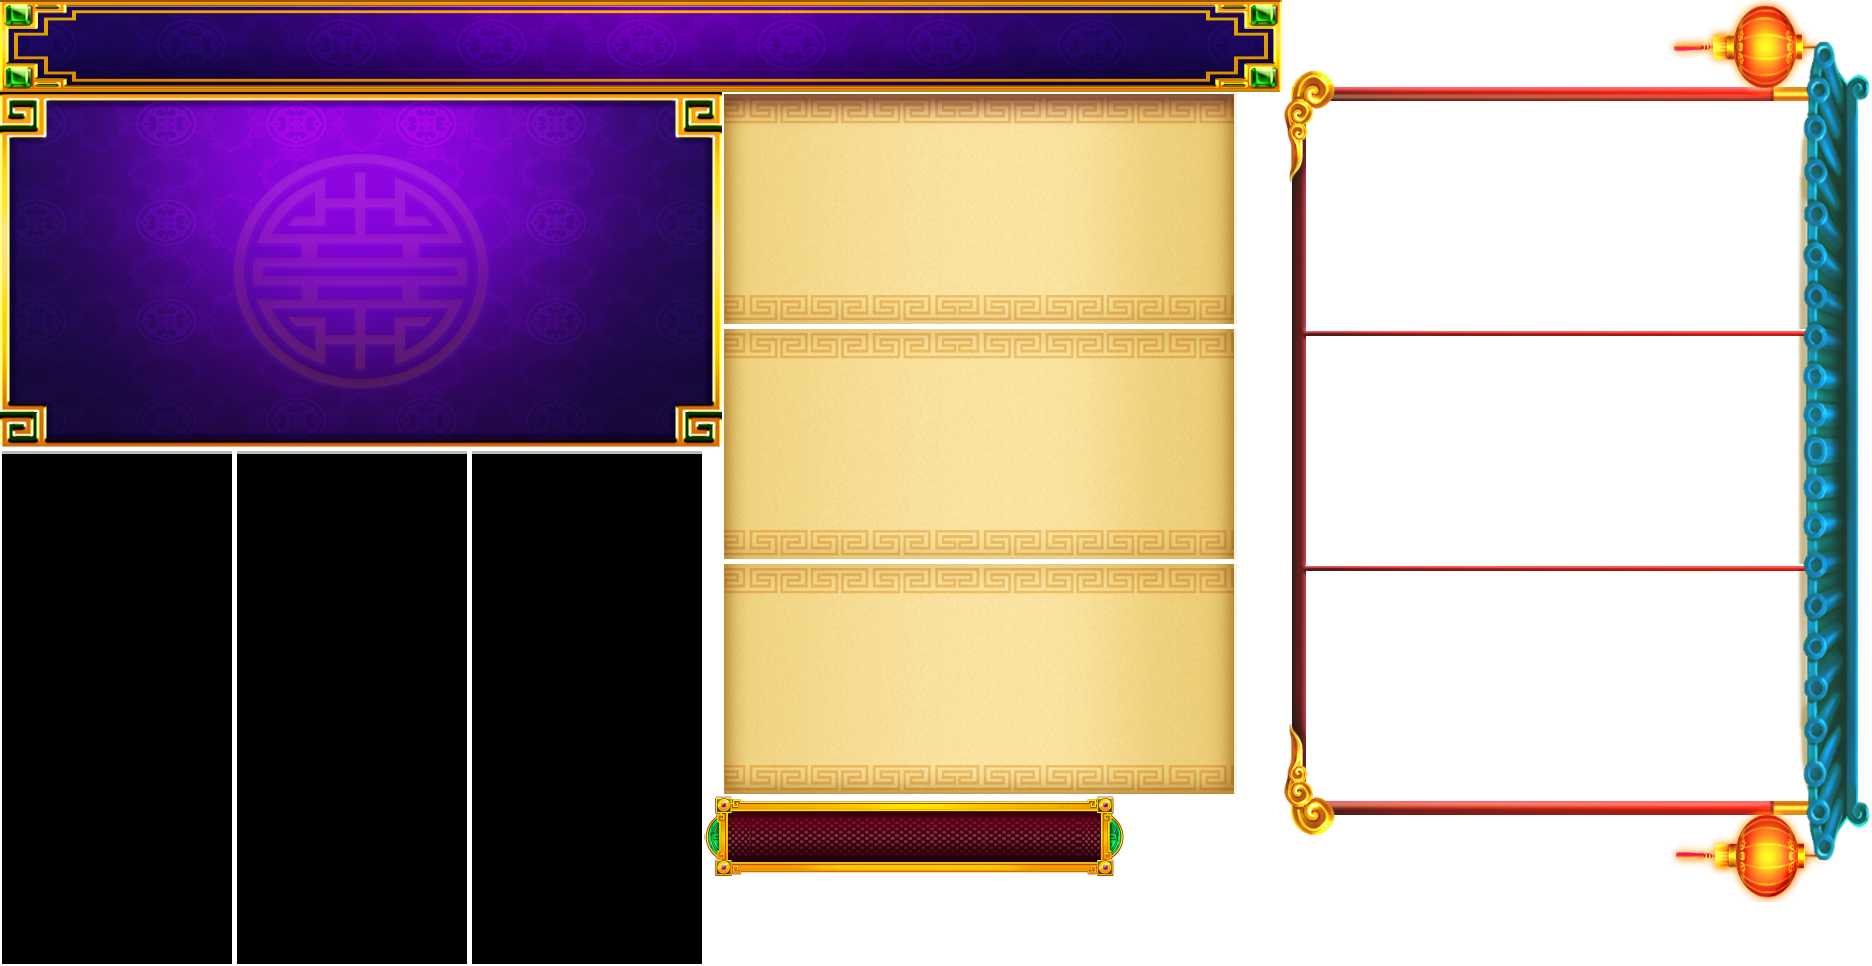
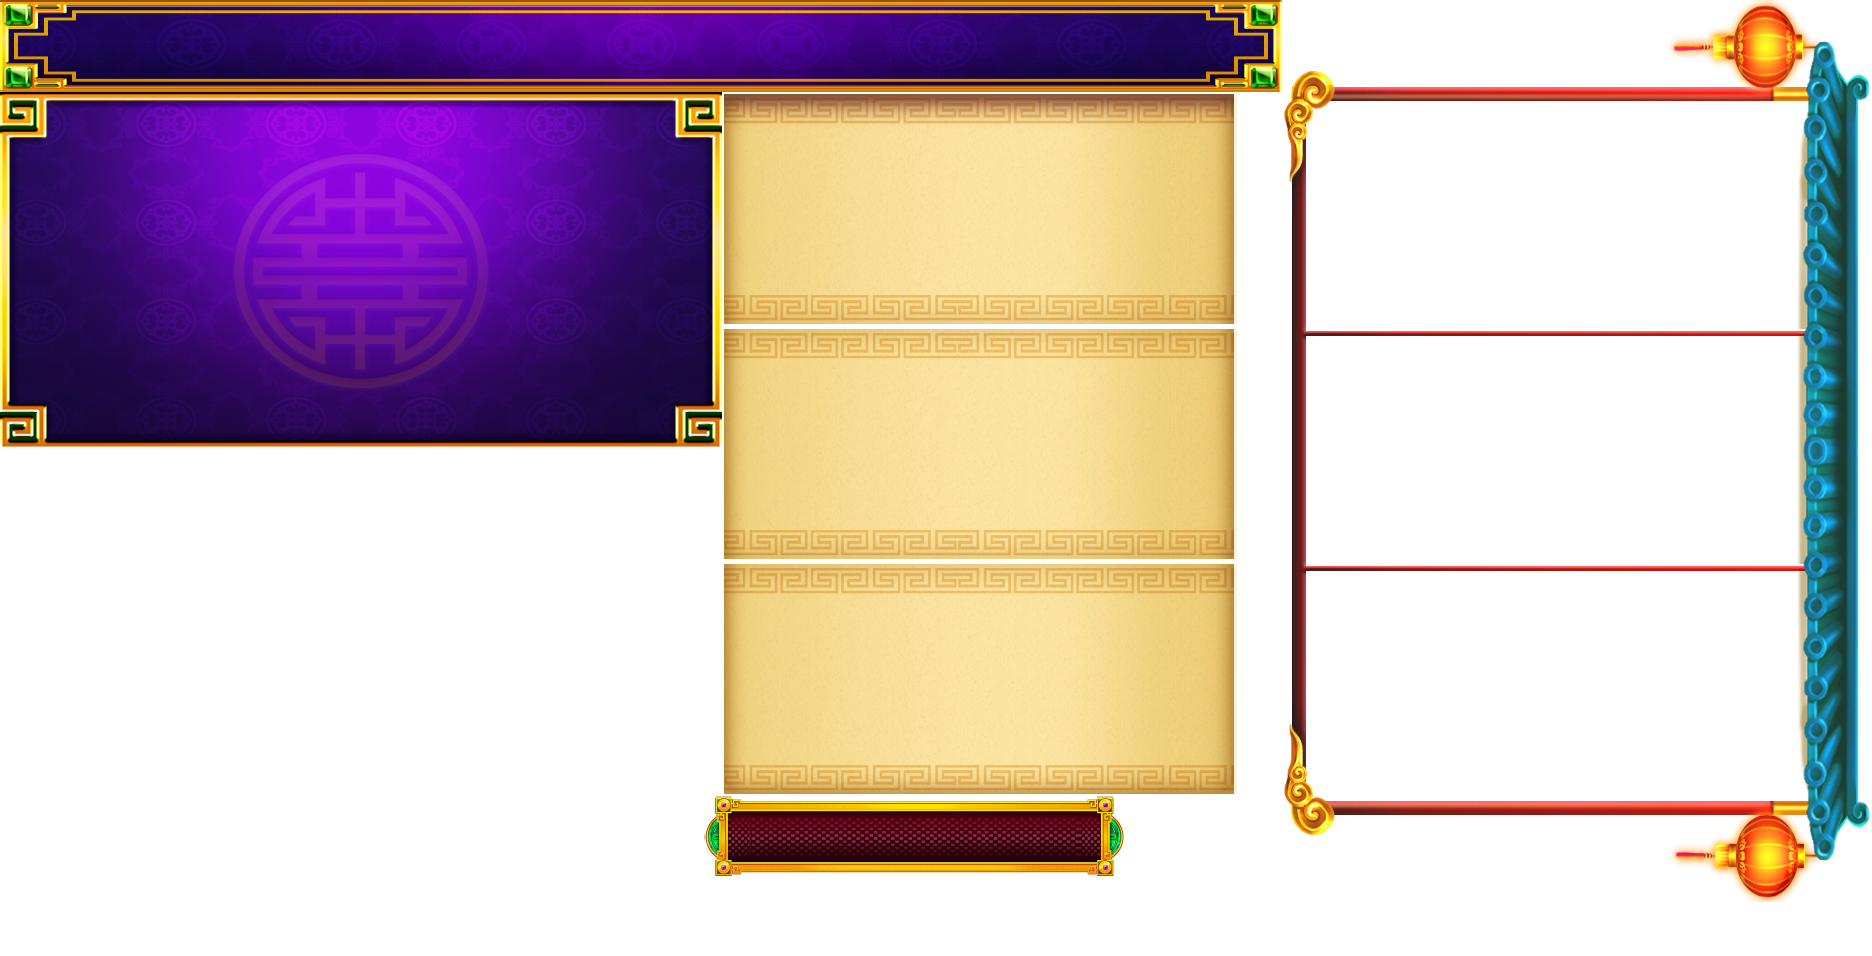
調整 FG 加場次的數字位置 調整 遮罩圖片 (改白色圖片)

Changed region(s): [[0.0, 0.1517, 1.0, 1.0], [0.0, 0.0607, 0.8985, 0.1517], [0.9295, 0.0607, 1.0, 0.1213]]

diff --git a/src/Game/GameController/FG_GameController.ts b/src/Game/GameController/FG_GameController.ts
@@ -9,6 +9,7 @@ import GameSlotData, { eWinType } from "../GameSlotData"
 import FreeGameNumberManager from "../Number/FreeGameNumberManager"
 import ReelController, { eReelGameType, SymbolController } from "../Reel/ReelController"
 import StickSymbolController from '../Reel/StickSymbolController'
+import { eSymbolName } from '../Reel/SymbolDef'
 import FGLotteryController from "../Win/FGLotteryController"
 import { LineManager } from "../Win/LineManager"
 
@@ -182,14 +183,17 @@ class EndSpin extends GameState{
 
     async enter(){
 
-        const {WinType, FGRemainTimes} = GameSlotData.FGSpinData.SpinInfo
+        const {WinLineInfos, WinType, FGRemainTimes} = GameSlotData.FGSpinData.SpinInfo
         const isFreeGame: boolean = (WinType & eWinType.freeGame) != 0
         const isWin: boolean = (WinType & eWinType.normal) != 0
 
         // 演加場次
         const plus: number = FGRemainTimes - FreeGameNumberManager.RemainTimes
-        if(plus > 0){
-            await FreeGameNumberManager.playPlusTotalTimes(FGRemainTimes)
+        if(plus > 0){               // 用場次判斷，避免有中FG，卻擋掉場次上限的問題
+            await Promise.all([
+                this.playSpecialSymbol(this.getWinlineBySymbol(WinLineInfos, eSymbolName.FG)[0]),
+                FreeGameNumberManager.playPlusTotalTimes(FGRemainTimes)
+            ])
             FreeGameNumberManager.adjustRemainTimes(true, plus)
         }
         isWin && await FGLotteryController.init()
@@ -204,6 +208,29 @@ class EndSpin extends GameState{
         EventHandler.dispatch(eGameEventName.activeBlackCover, {flag: false})
         LineManager.StopEachLineFn()
         GameSpineManager.endFGCharacterWin()
+    }
+
+    /**
+     * 取得包含某個symbol的winline
+     * @param symbol 要包含的symbol
+     * @returns {ISSlotWinLineInfo}
+     */
+    private getWinlineBySymbol(winlineInfos: Array<ISSlotWinLineInfo>, symbol: eSymbolName): Array<ISSlotWinLineInfo>{
+        return winlineInfos.filter(winline => winline.SymbolID == symbol)
+    }
+
+    /**
+     * 播放 FG 或 BG 得獎符號
+     */
+    private async playSpecialSymbol(winline: ISSlotWinLineInfo){
+        EventHandler.dispatch(eGameEventName.activeBlackCover, {flag: true})        // 壓黑
+
+        const allPromise: Array<Promise<void>> = winline.WinPosition.map(pos => SymbolController.playWinAnimation(pos[0], pos[1], 1, true))        // 播放 symbol 得獎
+        .concat()       // 如果 WD 有連線得分，這裡要再加上跑分的 promise
+
+        await Promise.all(allPromise)
+        SymbolController.clearAllWinAnimation()        // 清除 symbol 得獎
+        EventHandler.dispatch(eGameEventName.activeBlackCover, {flag: false})
     }
 }
 

diff --git a/globalDef.ts b/globalDef.ts
@@ -209,7 +209,7 @@ switch(window.reelType){
                 [eFGNumber.currentTimes]: {pos: new PIXI.Point(0, -65)},
                 // [eFGNumber.totalTimes]: {pos: new PIXI.Point(400, 115)},
                 [eFGNumber.remainTimes]: {pos: new PIXI.Point(360, 10)},
-                [eFGNumber.plus]: {pos: new PIXI.Point(400, -65)},
+                [eFGNumber.plus]: {pos: new PIXI.Point(405, 10)},
                 [eFGNumber.totalWin]: {pos: new PIXI.Point(0, -15)}
             },
         
@@ -218,7 +218,7 @@ switch(window.reelType){
                 [eFGNumber.currentTimes]: {pos: new PIXI.Point(0, -65)},
                 // [eFGNumber.totalTimes]: {pos: new PIXI.Point(400, 115)},
                 [eFGNumber.remainTimes]: {pos: new PIXI.Point(360, 10)},
-                [eFGNumber.plus]: {pos: new PIXI.Point(400, -65)},
+                [eFGNumber.plus]: {pos: new PIXI.Point(405, 10)},
                 [eFGNumber.totalWin]: {pos: new PIXI.Point(0, -25)}
             },
         }

diff --git a/src/Game/Reel/ReelController.ts b/src/Game/Reel/ReelController.ts
@@ -128,7 +128,7 @@ export default class ReelController{
             break
 
             case eReelType._3x3_reel:
-                this.mask = this.reelContainer.addChild(new Sprite('Reel_Back.png'))
+                this.mask = this.reelContainer.addChild(new Sprite('Reel_Mask.png'))
                 this.mask.position.copyFrom(window.reelBgPos)
             break
         } 
@@ -137,6 +137,7 @@ export default class ReelController{
     /** 初始化得分時，蓋住沒得獎symbol 黑色的遮罩 */
     private static initBlackCover(){
         this.blackCover = this.reelContainer.addChild(new Sprite('Reel_Mask.png'))
+        this.blackCover.tint = 0x000000                 // 美術出白色，方便遮罩也可以用
         this.blackCover.zIndex = eReelContainerLayer.black
         this.blackCover.name = 'blackCover'
         this.blackCover.position.copyFrom(window.reelMaskPos)

diff --git a/src/Game/Number/FreeGameNumberManager.ts b/src/Game/Number/FreeGameNumberManager.ts
@@ -32,9 +32,6 @@ export default class FreeGameNumberManager{
         this.numArr[eFGNumber.currentTimes] = GameFontManager.drawFreeGameRoundNumber('currentTimes', current.pos)         // 現在場次
         this.numArr[eFGNumber.remainTimes] = GameFontManager.drawFreeGameRoundNumber('remainTimes', remain.pos)            // 總共場次
         this.numArr[eFGNumber.totalWin] = GameFontManager.drawFreeGameTotalWinNumber('totalWin', totalWin.pos)             // 總贏分
-        // ;[eFGNumber.currentTimes, eFGNumber.remainTimes].map(index => this.numArr[index]).map(font =>{                     // 場次數字共通設定
-        //     font.zIndex = eReelContainerLayer.FG_roundTimes
-        // })
 
         this.numArr[eFGNumber.plus] = GameFontManager.drawFreeGamePlusNumber('plusTimes', plus.pos)
         this.numArr[eFGNumber.plus].zIndex = eReelContainerLayer.FG_plusTimes
